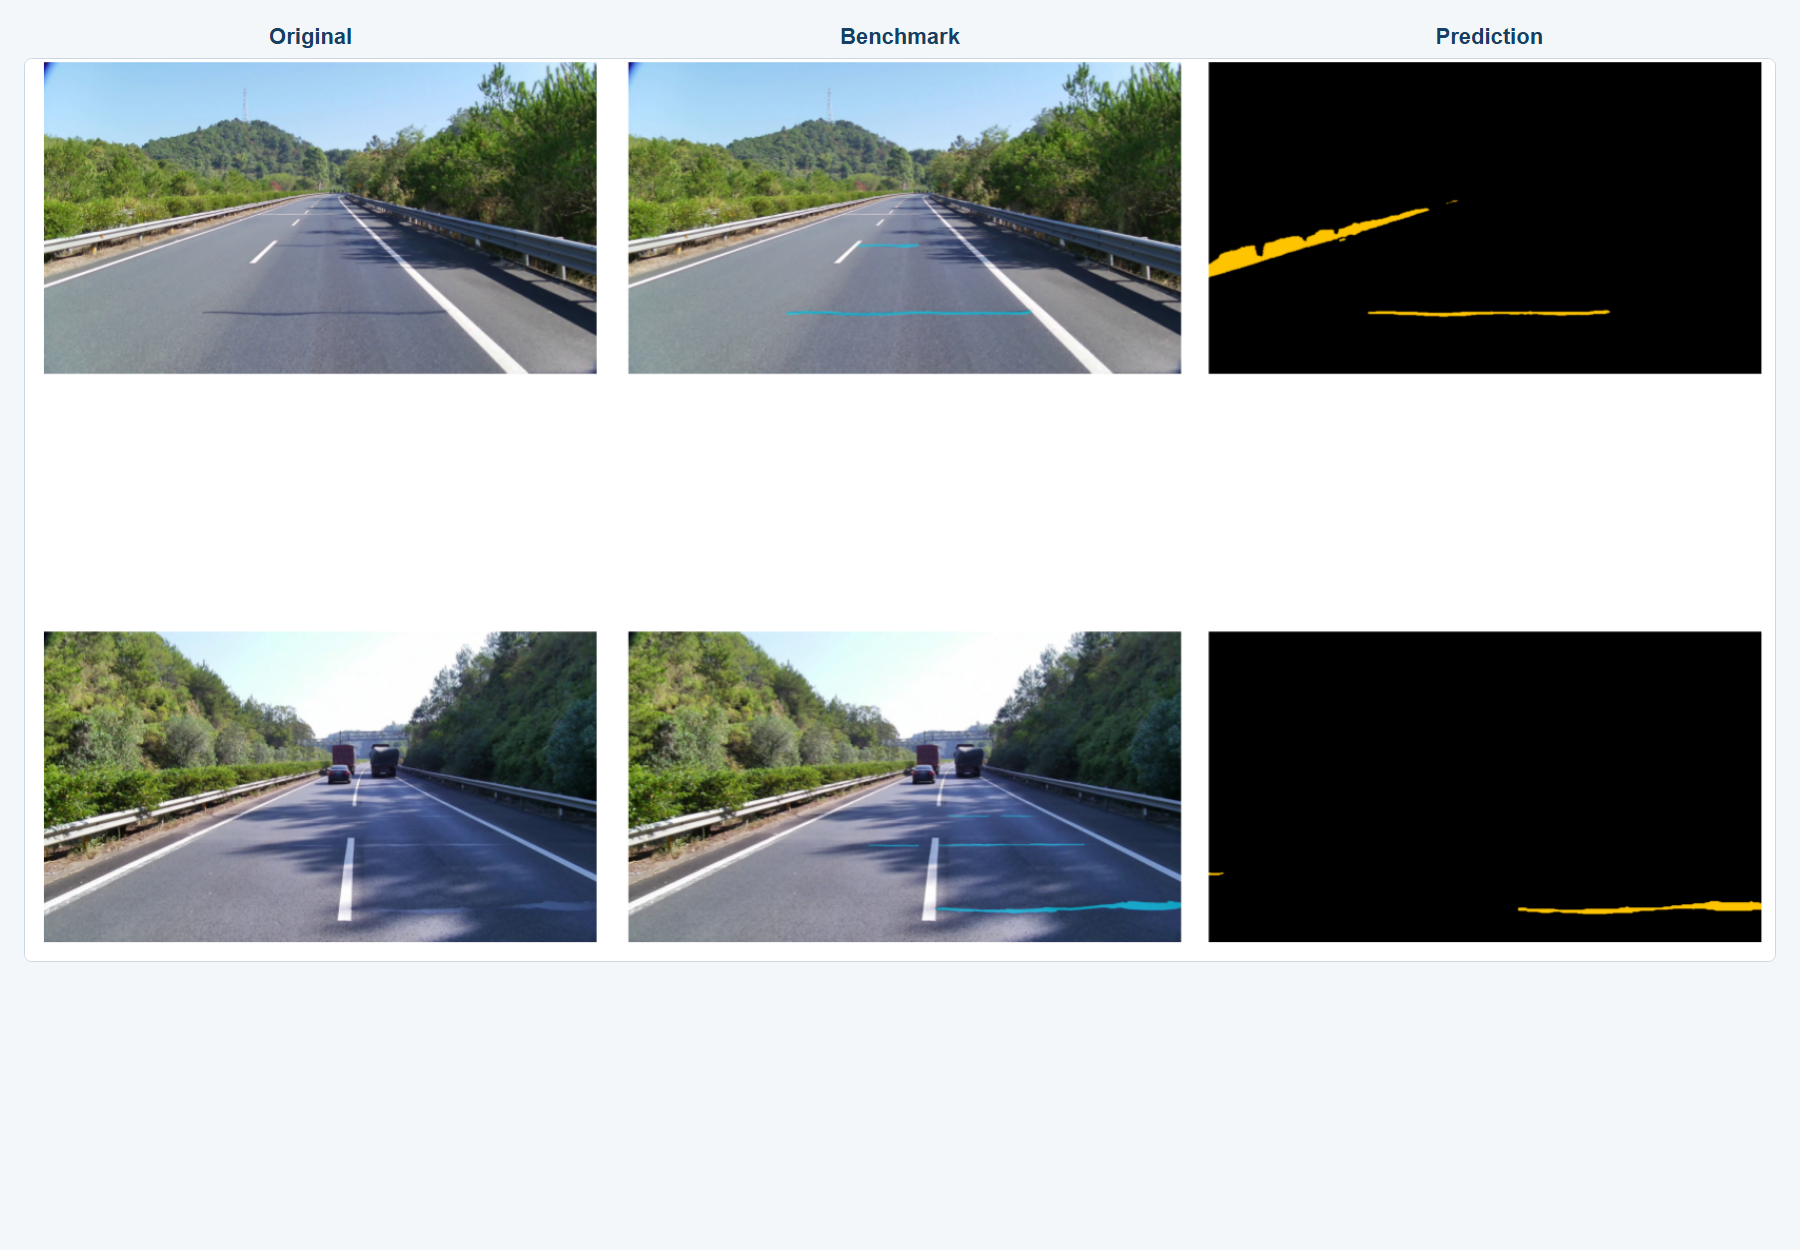
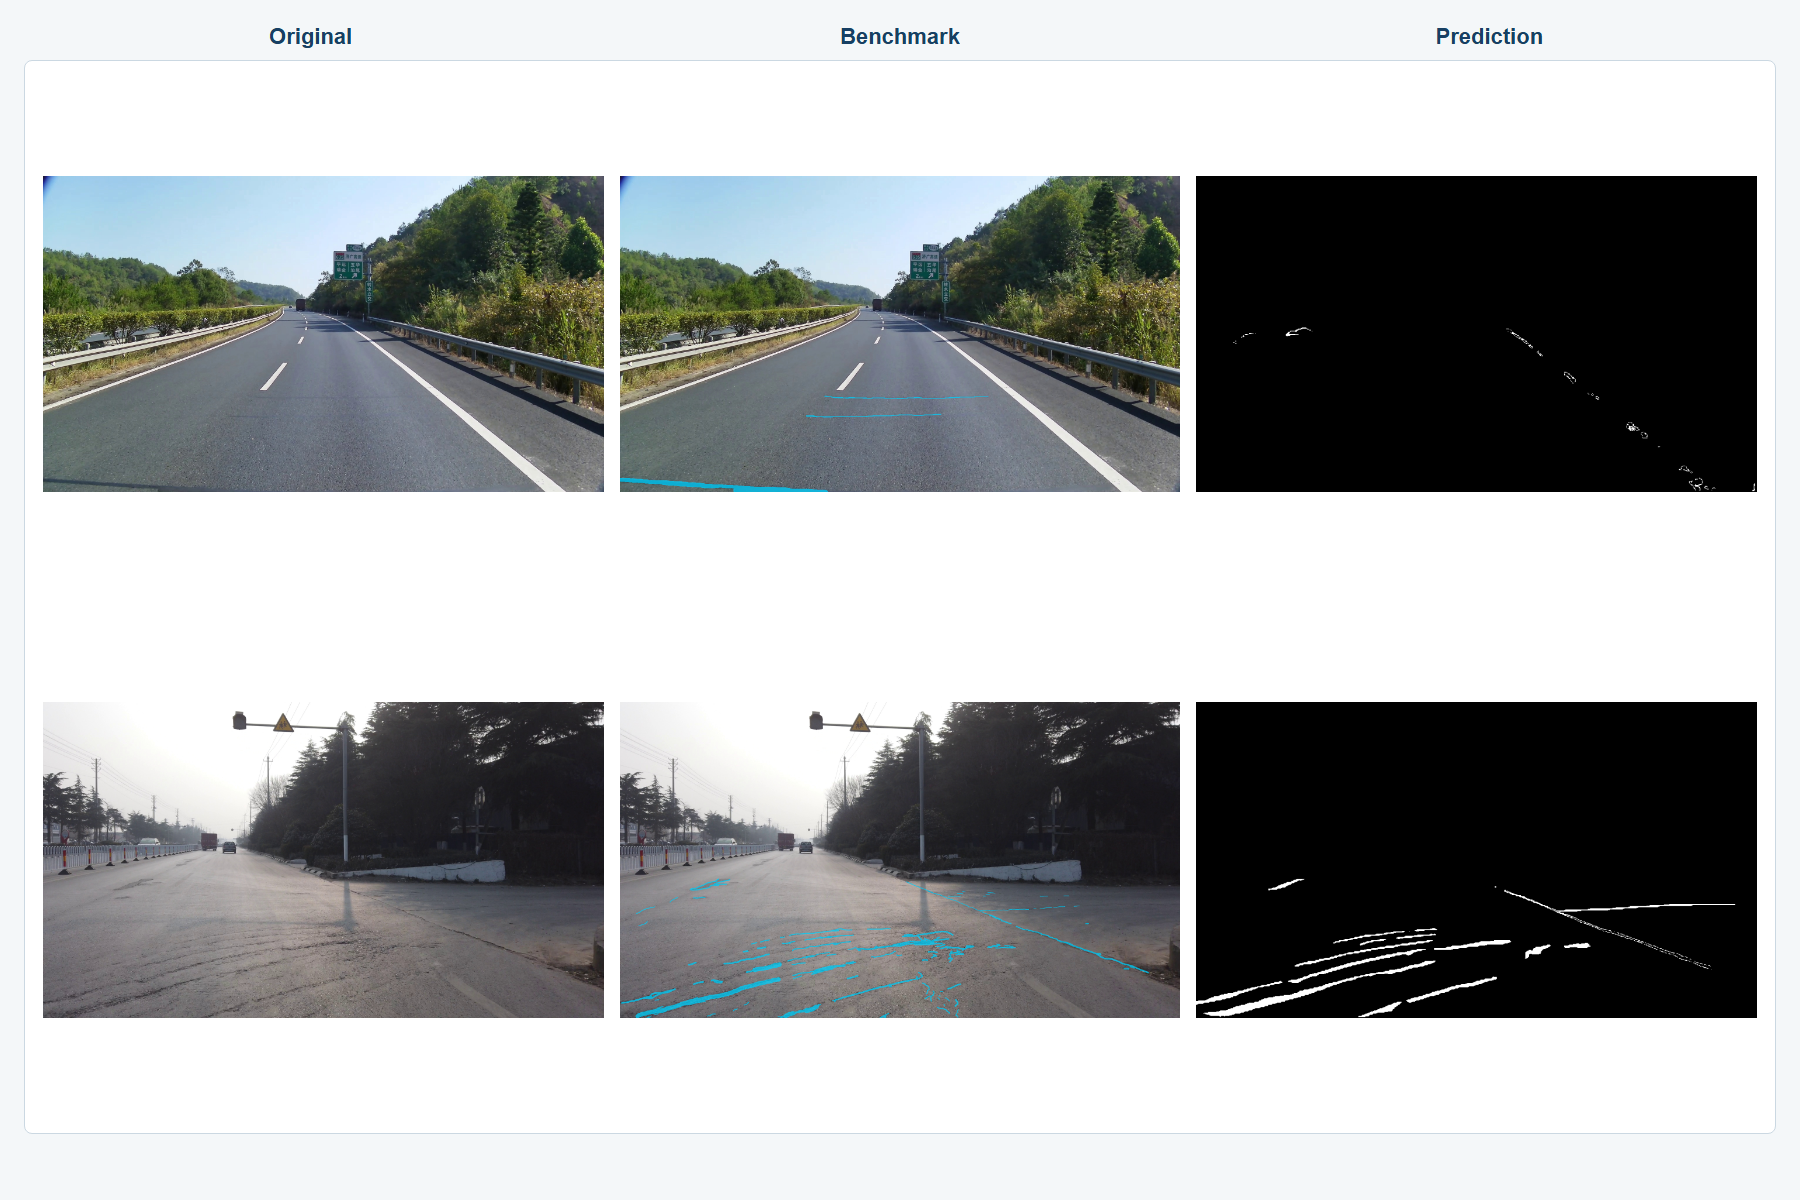
update CrackSeg road extraction result

diff --git a/pavement_crack_dataset_benchmark.html b/pavement_crack_dataset_benchmark.html
@@ -66,7 +66,7 @@
         <tr><td>GAPs384</td><td>509</td><td class="ours">0.3701</td><td class="ours">0.7715</td><td class="ours">0.5003</td><td class="ours">0.6950</td><td class="ours">0.7421</td><td class="ours">0.6795</td><td class="ours">0.8928</td><td class="ours">0.7717</td><td class="ours best">V60: 0.7717 (4px)</td><td class="paper"><a href="https://pmc.ncbi.nlm.nih.gov/articles/PMC7249178/">ResU-Net+ASPP+AG</a></td><td class="paper">0.8966</td><td class="paper">±5-pixel Dice</td></tr>
         <tr><td>CrackLS315</td><td>315</td><td class="ours">0.1137</td><td class="ours">0.8018</td><td class="ours">0.1992</td><td class="ours">0.7486</td><td class="ours">0.8282</td><td class="ours">0.8605</td><td class="ours">0.8580</td><td class="ours">0.8592</td><td class="ours best">V60: 0.8592 (4px)</td><td class="paper"><a href="https://royalsocietypublishing.org/doi/10.1098/rsta.2022.0172">TransCrack</a></td><td class="paper">0.8860</td><td class="paper">ODS F1</td></tr>
         <tr><td>CRKWH100</td><td>100</td><td class="ours">0.1244</td><td class="ours">0.9453</td><td class="ours">0.2199</td><td class="ours">0.8583</td><td class="ours">0.9434</td><td class="ours">0.9628</td><td class="ours">0.9806</td><td class="ours">0.9716</td><td class="ours best">V60: 0.9716 (4px)</td><td class="paper"><a href="https://www.sciencedirect.com/science/article/pii/S1569843222000279">LETNet / LECSFormer</a></td><td class="paper">0.9530</td><td class="paper">ODS F1</td></tr>
-        <tr><td>CrackSeg354</td><td>354</td><td class="ours">0.2640</td><td class="ours">0.4923</td><td class="ours">0.3437</td><td class="ours">0.4687</td><td class="ours">0.4815</td><td class="ours">0.4317</td><td class="ours">0.5626</td><td class="ours">0.4886</td><td class="ours best">V60: 0.4886 (4px)</td><td class="paper"><a href="https://doi.org/10.1109/TITS.2024.3475371">SAM crack-adapter</a></td><td class="paper">Not reported</td><td class="paper">Only AP improvement reported</td></tr>
+        <tr><td>CrackSeg</td><td>2,832</td><td class="ours">0.3124</td><td class="ours">0.3988</td><td class="ours">0.3488</td><td class="ours">0.5283</td><td class="ours">0.5489</td><td class="ours">0.6479</td><td class="ours">0.4979</td><td class="ours">0.5630</td><td class="ours best">V73/V79: 0.5630 (4px, weighted)</td><td class="paper"><a href="https://doi.org/10.1109/TITS.2024.3475371">SAM crack-adapter</a></td><td class="paper">Not reported</td><td class="paper">Only AP improvement reported</td></tr>
         <tr><td>PaveCrack1300</td><td>1,300</td><td class="ours">0.7782</td><td class="ours">0.5265</td><td class="ours">0.6280</td><td class="ours">0.7024</td><td class="ours">0.7248</td><td class="ours">0.8769</td><td class="ours">0.6432</td><td class="ours">0.7421</td><td class="ours best">V60: 0.7421 (4px)</td><td class="paper"><a href="https://data.mendeley.com/datasets/8b27pdcxv7/1">No published benchmark identified</a></td><td class="paper">—</td><td class="paper">Recently released dataset</td></tr>
         <tr><td>SUT-Crack</td><td>90</td><td class="ours">0.7781</td><td class="ours">0.8574</td><td class="ours">0.8158</td><td class="ours">0.9759</td><td class="ours">0.9860</td><td class="ours">0.9958</td><td class="ours">0.9851</td><td class="ours">0.9904</td><td class="ours best">V60: 0.9904 (4px)</td><td class="paper"><a href="https://onlinelibrary.wiley.com/doi/10.1155/stc/6269747">CraSAM prompt</a></td><td class="paper">0.7055</td><td class="paper">Direct-pixel F1</td></tr>
         <tr><td>NHA12D</td><td>80</td><td class="ours">0.3280</td><td class="ours">0.8907</td><td class="ours">0.4795</td><td class="ours">0.7701</td><td class="ours">0.7876</td><td class="ours">0.6848</td><td class="ours">0.9493</td><td class="ours">0.7956</td><td class="ours best">V60: 0.7956 (4px)</td><td class="paper"><a href="https://arxiv.org/abs/2205.01198">VGG16-U-Net</a></td><td class="paper">0.6460</td><td class="paper">Best subgroup, ±2px F1</td></tr>

diff --git a/examples.html b/examples.html
@@ -29,7 +29,7 @@ const datasets = {
   gaps384: ['GAPs384', 'assets/gaps384_examples.png'],
   crackls315: ['CrackLS315', 'assets/crackls315_examples.png'],
   crkwh100: ['CRKWH100', 'assets/crkwh100_examples.png'],
-  crackseg354: ['CrackSeg354', 'assets/crackseg354_examples.png'],
+  crackseg354: ['CrackSeg', 'assets/crackseg354_examples.png'],
   pavecrack1300: ['PaveCrack1300', 'assets/pavecrack1300_examples.png'],
   sut_crack: ['SUT-Crack', 'assets/sut_crack_examples.png'],
   nha12d: ['NHA12D', 'assets/nha12d_examples.png'],
